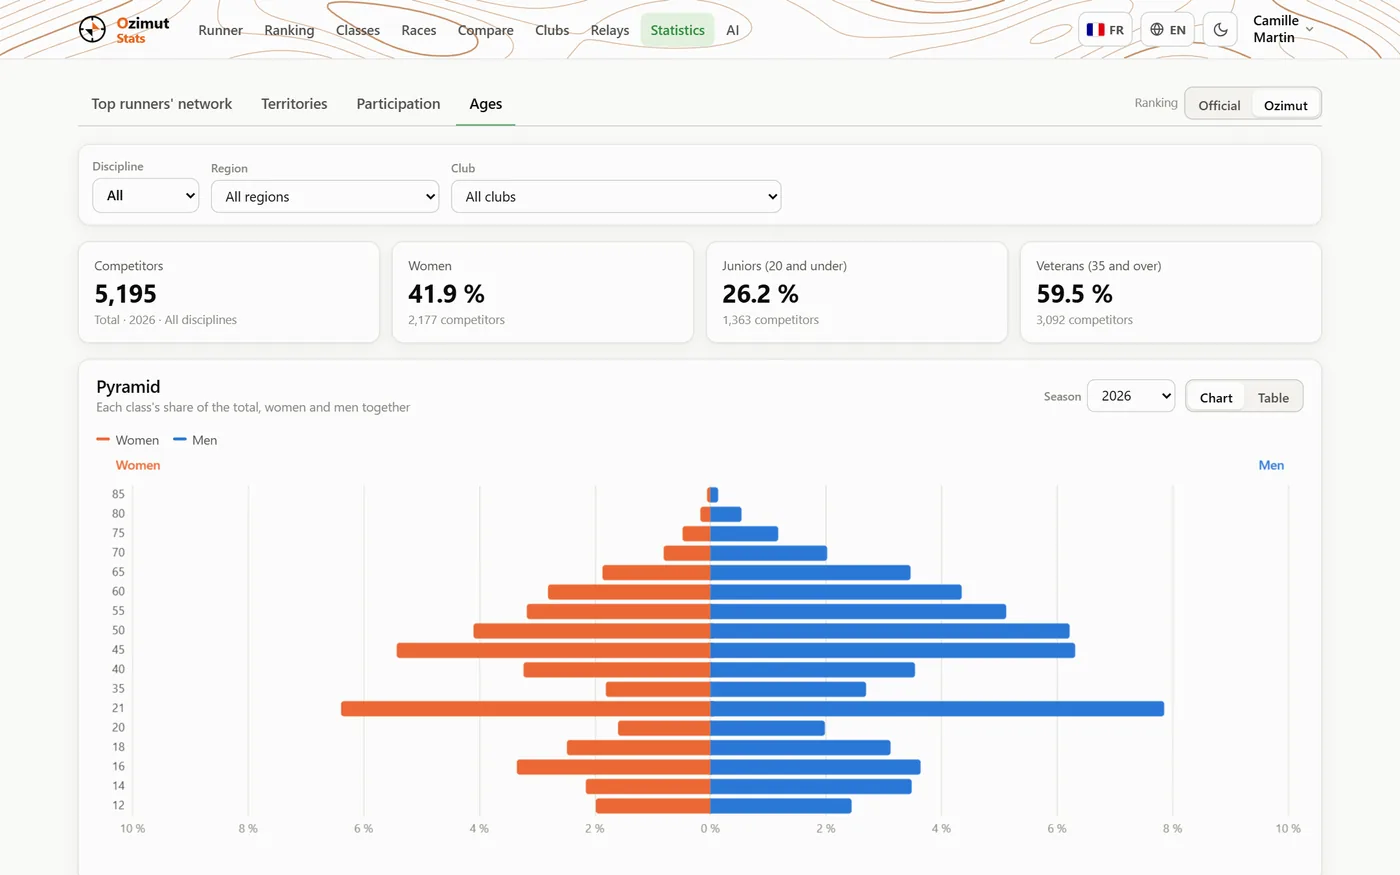
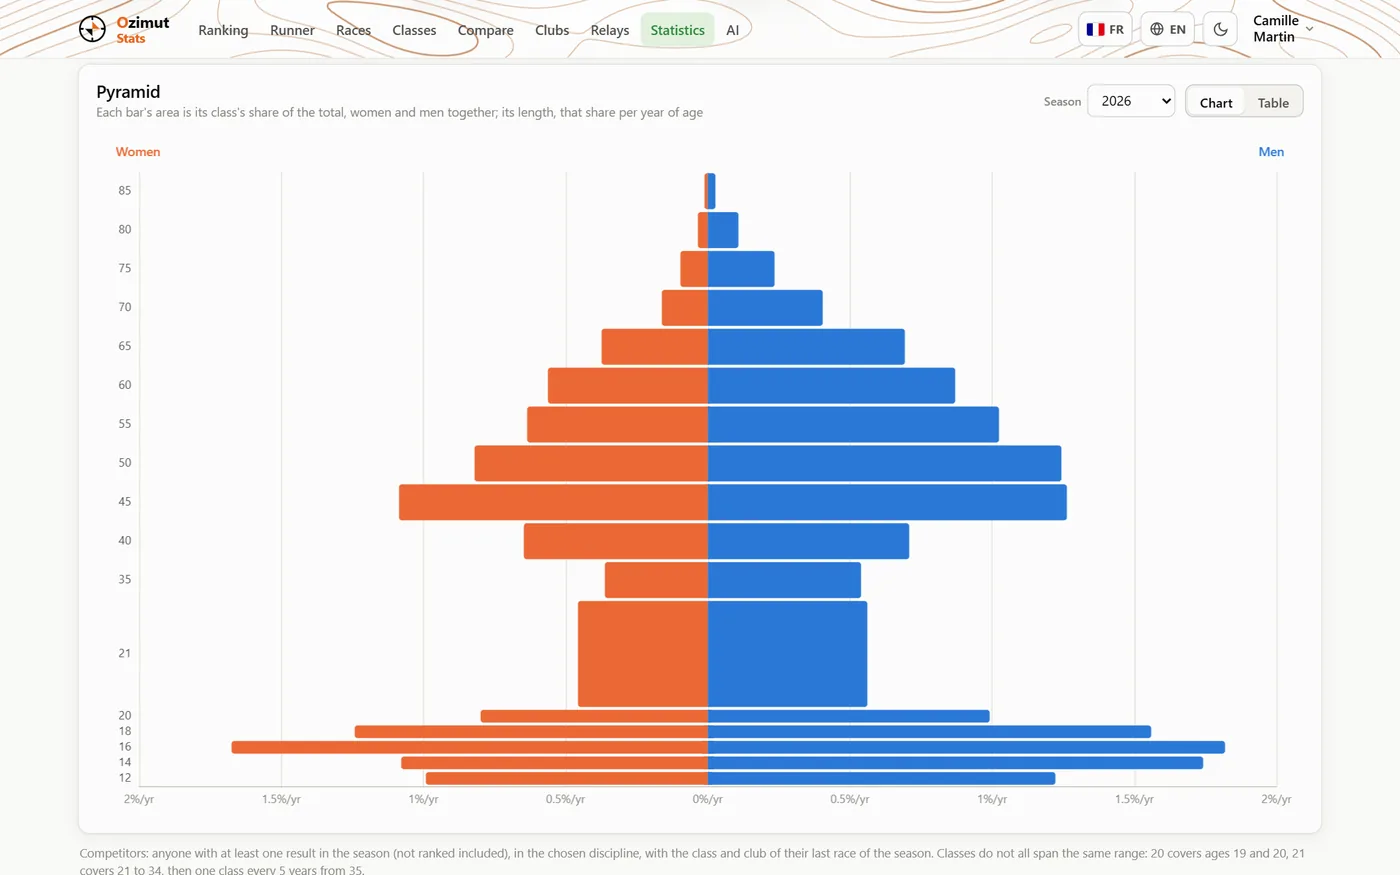
Home page: the ages pyramid's picture and the reel's drawn one, as the chart now is
The « Pyramide des âges » screenshot (French and English, on the scrambled
copy of the data) showed equal rows and the women/men legend. Retaken with the
rows as tall as their categories' years, the areas their shares, the card
scrolled under the bar so the taller chart fits. The reel's drawn pyramid
follows the same rule: its 5- and 10-year bands as tall as their years, each
as long as its runners per year.

diff --git a/site/assets/js/reel.js b/site/assets/js/reel.js
@@ -130,15 +130,19 @@ function vClubs() {
 }
 
 // 6. an age pyramid: women on the left, men on the right
+// each band as tall as its years and as long as its runners per year, so that its area is its runners (as the site's, 2026-11-02)
 function vPyramid() {
   const bands = ["10-14", "15-19", "20-24", "25-34", "35-44", "45-54", "55-64", "65-74", "75+"];
+  const years = [5, 5, 5, 10, 10, 10, 10, 10, 10];
   const f = [34, 27, 12, 18, 31, 36, 29, 17, 6], m = [41, 33, 17, 24, 38, 45, 40, 26, 10];
-  const cx = W / 2, sc = 4.3;
+  const cx = W / 2, sc = 22, py = 243 / years.reduce((a, b) => a + b, 0);
+  let bottom = 268;
   const rows = bands.map((b, i) => {
-    const y = 268 - (i + 1) * 27;
-    return `<rect class="rv-grow-x rv-from-right" x="${cx - 26 - f[i] * sc}" y="${y}" width="${f[i] * sc}" height="21" rx="4" fill="var(--s5)" ${d(0.05 * i)}/>
-      <rect class="rv-grow-x" x="${cx + 26}" y="${y}" width="${m[i] * sc}" height="21" rx="4" fill="var(--s1)" ${d(0.05 * i)}/>
-      ${label(cx, y + 15, b, `text-anchor="middle" class="rv-lab rv-small"`)}`;
+    const h = years[i] * py, y = bottom - h, fw = (f[i] / years[i]) * sc, mw = (m[i] / years[i]) * sc;
+    bottom = y;
+    return `<rect class="rv-grow-x rv-from-right" x="${cx - 26 - fw}" y="${y + 1.5}" width="${fw}" height="${h - 3}" rx="3" fill="var(--s5)" ${d(0.05 * i)}/>
+      <rect class="rv-grow-x" x="${cx + 26}" y="${y + 1.5}" width="${mw}" height="${h - 3}" rx="3" fill="var(--s1)" ${d(0.05 * i)}/>
+      ${label(cx, y + h / 2 + 4, b, `text-anchor="middle" class="rv-lab rv-small"`)}`;
   }).join("");
   return svg(`${rows}${label(cx - 40, 290, t("reel.women"), `text-anchor="end" class="rv-lab rv-strong"`)}
     ${label(cx + 40, 290, t("reel.men"), `class="rv-lab rv-strong"`)}`);

diff --git a/CLAUDE.md b/CLAUDE.md
@@ -411,7 +411,8 @@ sheets — kept in `C:\kerkia\cn-data\scratch-scripts\C--kerkia-CO\7c7246a6-efbb
 Retaken the same evening with the modules' bar, plus `multi` and `multi-gaps`: the local test analysis « Test UI club » (circuit
 « Bleu », the reel's invented map; `multi` at 23:00, nobody followed, every runner's whole route in thick lines — `ocn.sh.prefs` tail 0, width 2.4 — so that the four routes and their variants show, owner 2026-10-31), whose title, organiser and runners `lib.mjs` replaces with invented ones
 (`/api/analyses/<id>` and `/traces/<n>`, fetched with the page's cookies) — never take them without that. `past` must open in a
-fresh page: an Agenda address opened from the Agenda keeps the page's periods.
+fresh page: an Agenda address opened from the Agenda keeps the page's periods. `stats-ages` retaken on 2026-11-02 (the pyramid's rows as tall as their
+categories' years, its bars' areas their shares; `tour2.mjs` scrolls its card under the bar), the reel's `vPyramid` alike.
 
 ## Provisional results (« Résultats »)
 
